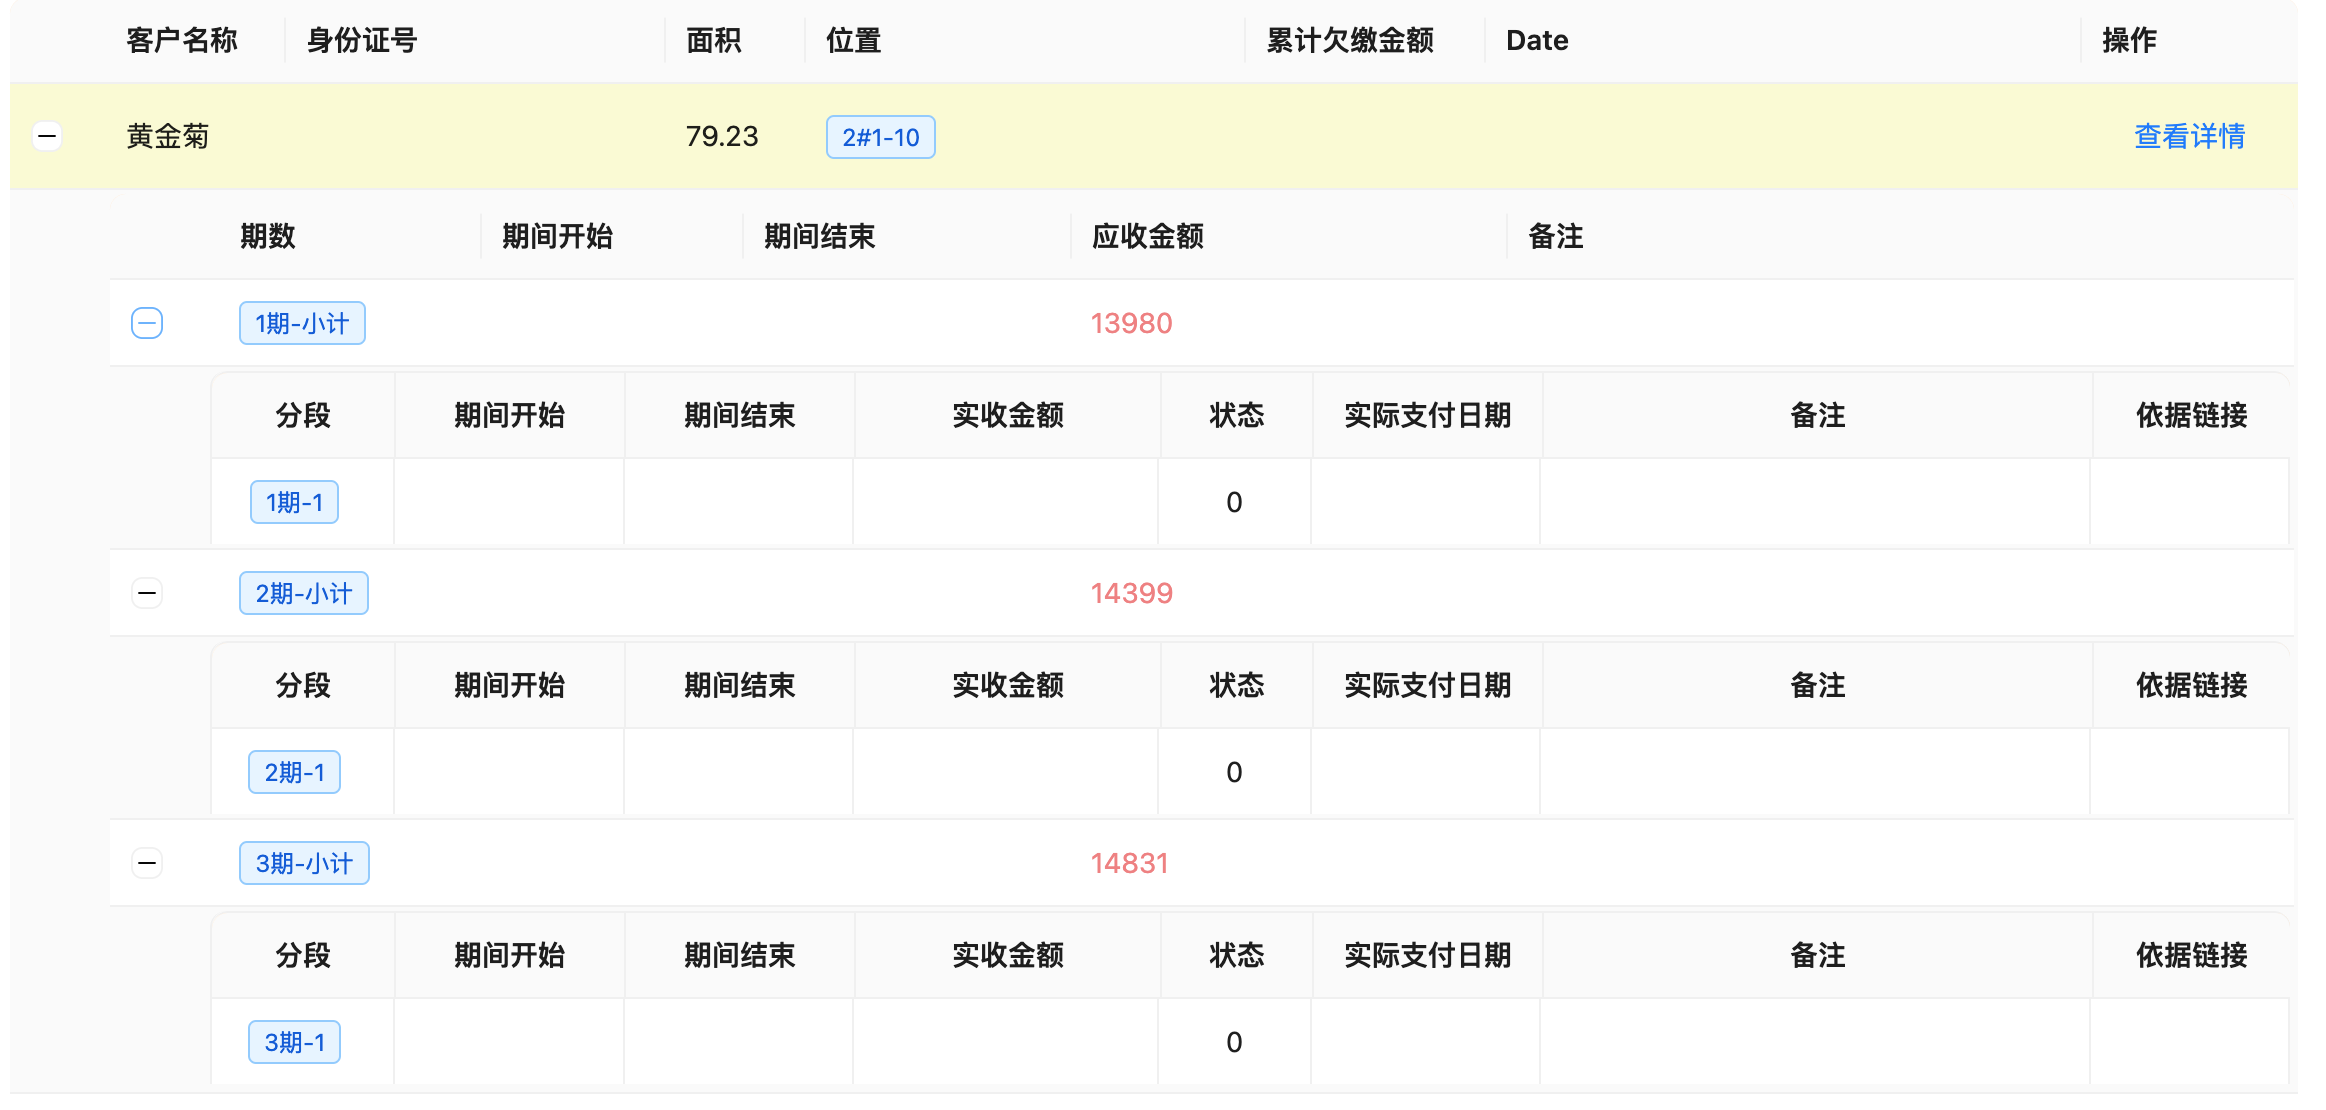
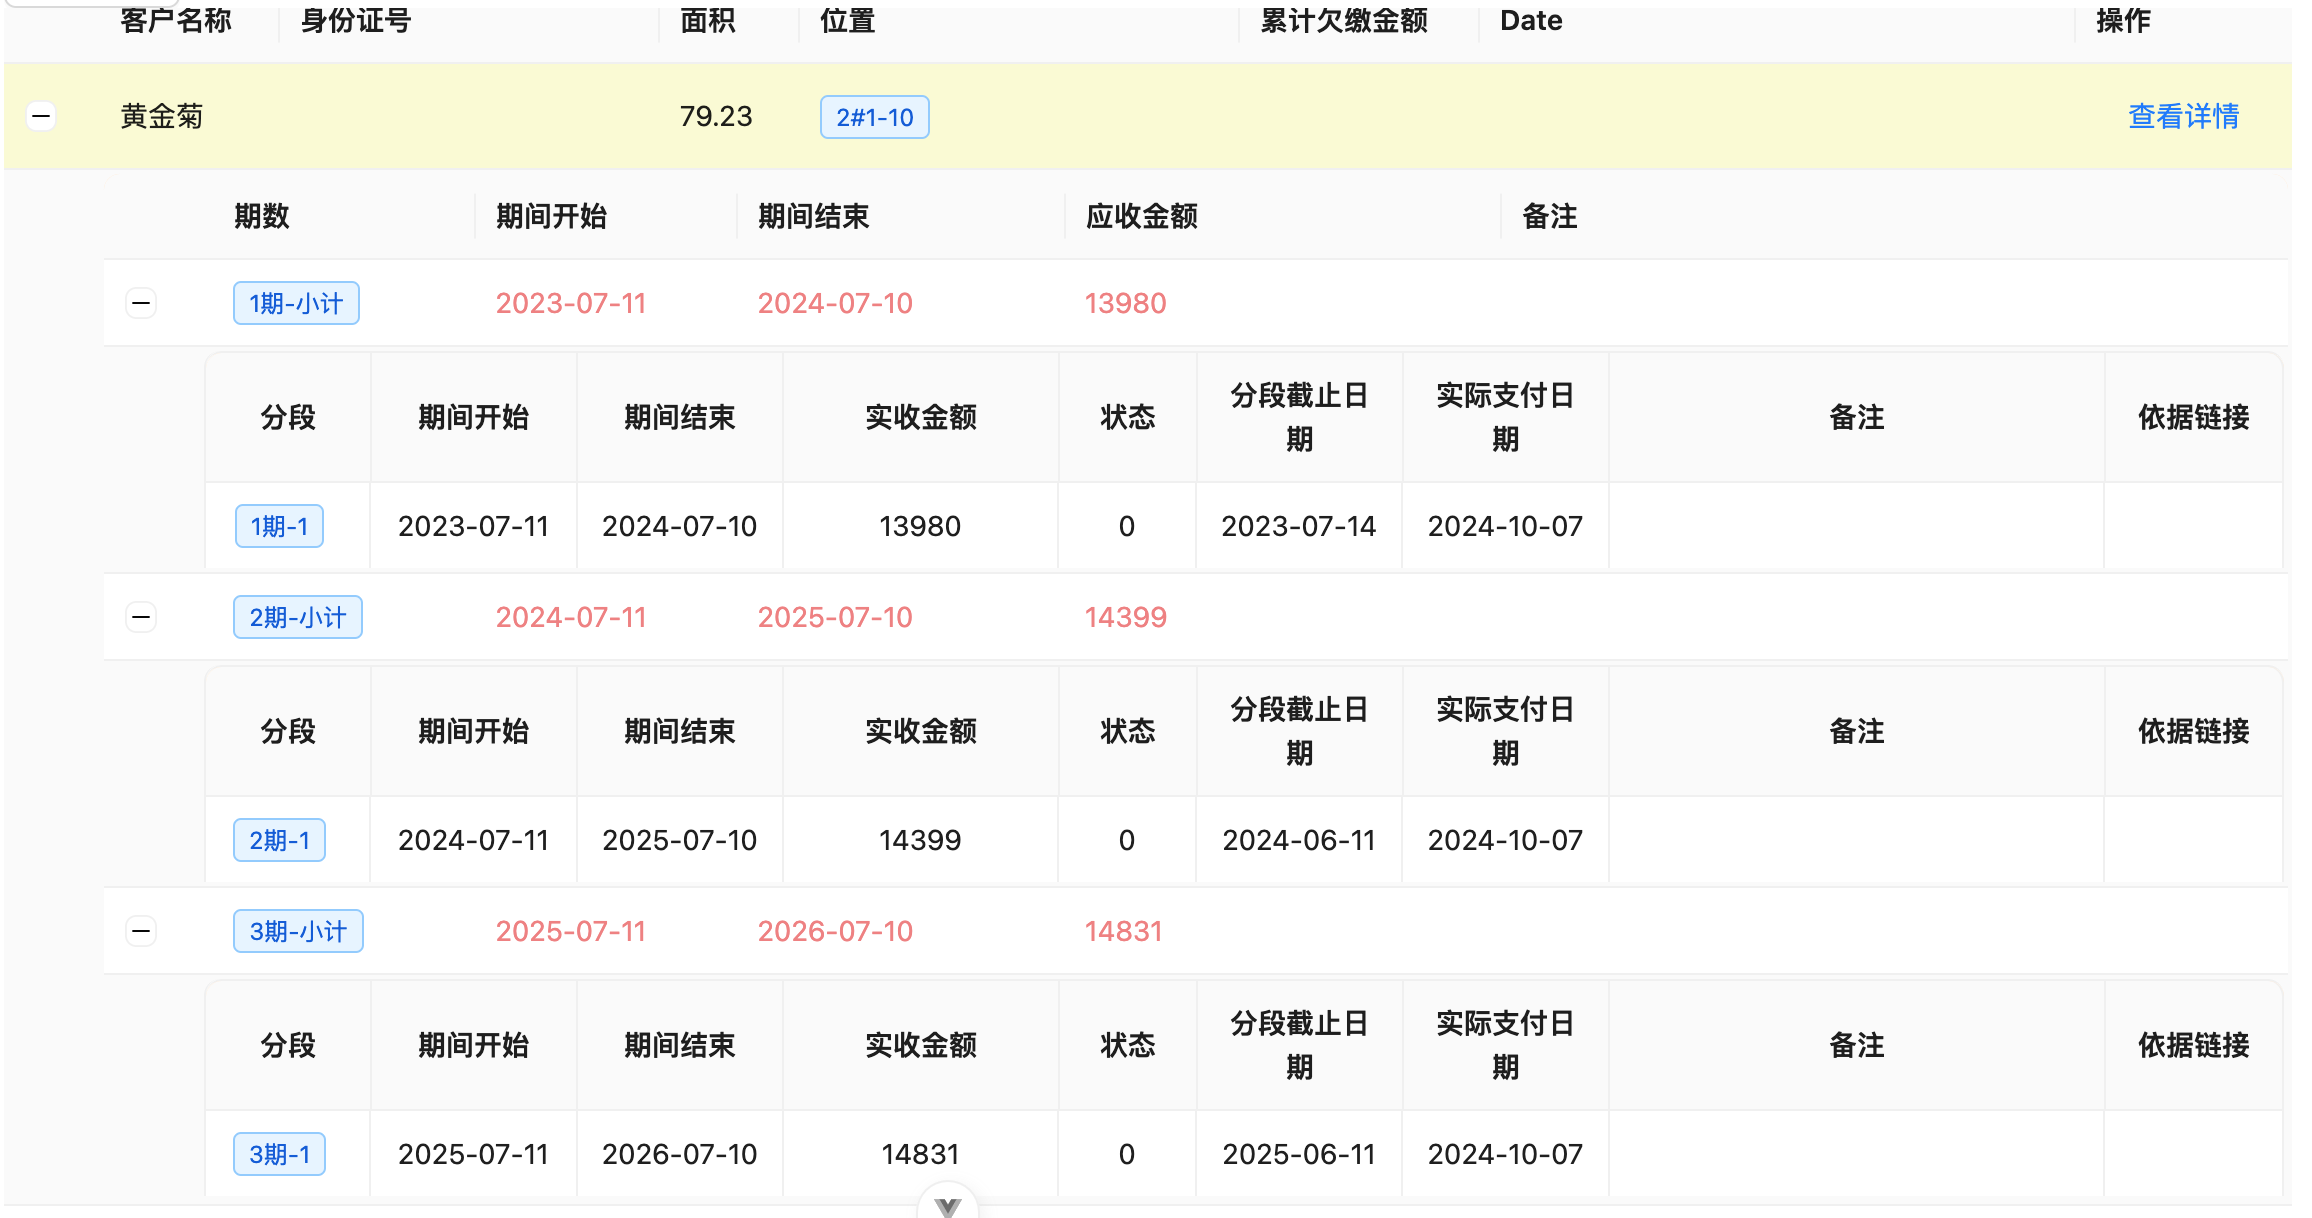
"优化2"

diff --git a/src/2-biz-complex/cp-projectCP/ClientFinanceHome/ReadClientFinance.vue b/src/2-biz-complex/cp-projectCP/ClientFinanceHome/ReadClientFinance.vue
@@ -63,7 +63,7 @@
               </span>
             </template>
 
-            <template v-if="column.key === 'state'">
+            <template v-else-if="column.key === 'state'">
               {{ column.key }}
               {{ text.state === '已逾期' }}
               <template v-if="text.state === '已逾期'">
@@ -79,6 +79,13 @@
                 {{ text.state }}
               </template>
             </template>
+
+            <template v-else-if="column.key === 'period_start' || column.key === 'period_end'">
+              {{ dayjs(text).format('YYYY-MM-DD') }}
+            </template>
+            <template v-else>
+              {{ text }}
+            </template>
           </template>
           <template #expandedRowRender="{ record, index: outerIndex }">
             <!-- {{ record.payment_plan_splits }} -->
@@ -91,15 +98,30 @@
               :pagination="false"
             >
               <template #bodyCell="{ column, text, index }">
+                <!-- {{ record }} -->
                 <template v-if="column.key === 'index'">
                   <span>
                     <a-tag color="blue">{{ outerIndex + 1 + '期' }}{{ '-' + (index + 1) }}</a-tag>
                   </span>
                 </template>
-                <template v-if="column.key === 'state'">
+                <template v-else-if="column.key === 'state'">
                   {{ text }}
                 </template>
-                <template v-else-if="column.key === 'operation'">
+
+                <template
+                  v-else-if="
+                    column.key === 'period_start' ||
+                    column.key === 'period_end' ||
+                    column.key === 'payment_date' ||
+                    column.key === 'operation_date'
+                  "
+                >
+                  {{ dayjs(text).format('YYYY-MM-DD') }}
+                </template>
+                <!-- <template v-else-if="column.key === 'period_start'">
+                  {{ dayjs(text).format('YYYY-MM-DD') }}
+                </template> -->
+                <!-- <template v-else-if="column.key === 'operation'">
                   <span class="table-operation">
                     <a>Pause</a>
                     <a>Stop</a>
@@ -117,6 +139,9 @@
                       </a>
                     </a-dropdown>
                   </span>
+                </template> -->
+                <template v-else>
+                  {{ text }}
                 </template>
               </template>
             </a-table>
@@ -133,7 +158,7 @@ import type { RPlanVO } from '@/2-biz-complex/services/vo/plan'
 import { usePlanStore } from '@/stores'
 import { useCommonStore } from '@/stores/common'
 import { useHeaderStore } from '@/stores/header'
-// import dayjs from 'dayjs';
+import dayjs from 'dayjs'
 import { onMounted, ref } from 'vue'
 import { VuePrintNext } from 'vue-print-next'
 import { DownOutlined } from '@ant-design/icons-vue'
@@ -272,16 +297,16 @@ const innerColumns = [
   },
   {
     title: '期间开始',
-    dataIndex: 'beginDate',
-    key: 'beginDate',
+    dataIndex: 'period_start',
+    key: 'period_start',
     width: '12%',
     className: 'innerc',
     align: innerColumnsAlign.value
   },
   {
     title: '期间结束',
-    dataIndex: 'endDate',
-    key: 'endDate',
+    dataIndex: 'period_end',
+    key: 'period_end',
     width: '15%',
     className: 'innerc',
     align: innerColumnsAlign.value
@@ -313,21 +338,21 @@ const inner2Columns = [
   },
   {
     title: '期间开始',
-    dataIndex: 'beginDate',
-    key: 'beginDate',
+    dataIndex: 'period_start',
+    key: 'period_start',
     width: '15%',
     align: inner2ColumnsAlign.value
   },
   {
     title: '期间结束',
-    dataIndex: 'endDate',
-    key: 'endDate',
+    dataIndex: 'period_end',
+    key: 'period_end',
     width: '15%',
     align: inner2ColumnsAlign.value
   },
   {
     title: '实收金额',
-    dataIndex: 'amount',
+    dataIndex: 'payment_amount',
     key: 'amount',
     width: '20%',
     align: inner2ColumnsAlign.value
@@ -340,9 +365,16 @@ const inner2Columns = [
     align: inner2ColumnsAlign.value
   },
   {
+    title: '分段截止日期',
+    dataIndex: 'payment_date',
+    key: 'payment_date',
+    width: '15%',
+    align: inner2ColumnsAlign.value
+  },
+  {
     title: '实际支付日期',
-    dataIndex: 'paymentDate',
-    key: 'paymentDate',
+    dataIndex: 'operation_date',
+    key: 'operation_date',
     width: '15%',
     align: inner2ColumnsAlign.value
   },
